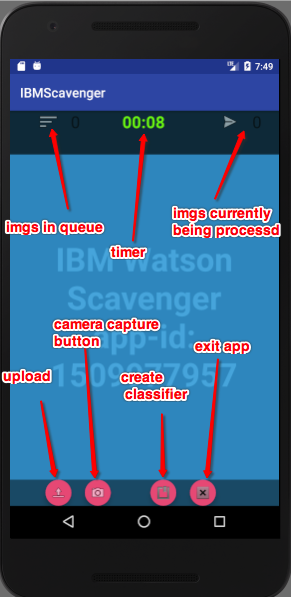
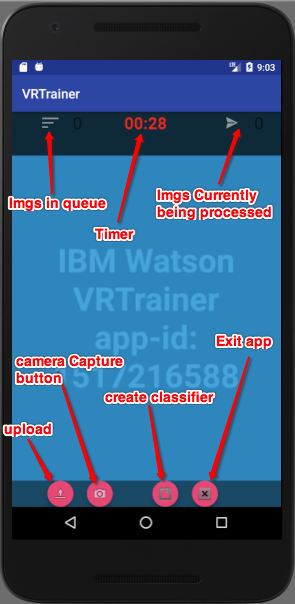
Naming changes
Naming changes

diff --git a/app/src/main/java/com/ibm/watson/scavenger/main/FullscreenActivity.java b/app/src/main/java/com/ibm/watson/scavenger/main/FullscreenActivity.java
@@ -153,7 +153,6 @@ public class FullscreenActivity extends AppCompatActivity {
     private Chronometer counter = null;
     private int train_no_of_image = 10;
     private TextView trainCountRemaining = null;
-    public static String random_img_obj_str=null;
 
     /*
     *
@@ -338,10 +337,7 @@ public class FullscreenActivity extends AppCompatActivity {
             actionBar.setDisplayHomeAsUpEnabled(true);
         }*/
 
-        random_img_obj_str=getRandomImgObjString(mContext.getString(R.string.allowable_obj_set).split(","),
-                Integer.valueOf(mContext.getString(R.string.possible_number_of_obj).trim()));
-
-        if(checkInternetConnection()){
+        //if(checkInternetConnection()){
             /*
             initiate all the services instances
              */
@@ -496,13 +492,12 @@ public class FullscreenActivity extends AppCompatActivity {
                     cameraHelper.dispatchTakePictureIntent();
                 }
             });
-
-        }
-        else{
+            trainCaptureImgActionButton.setVisibility(View.INVISIBLE);
+            exitTraining_btn.setVisibility(View.INVISIBLE);
+        //}
+        /*else{
             Toast.makeText(this, " No Internet Connection available ", Toast.LENGTH_LONG).show();
-        }
-        trainCaptureImgActionButton.setVisibility(View.INVISIBLE);
-        exitTraining_btn.setVisibility(View.INVISIBLE);
+        }*/
     }
 
     @Override
@@ -597,10 +592,9 @@ public class FullscreenActivity extends AppCompatActivity {
         delayedHide(100);
 
         if(!this.getIntent().hasExtra("calling_act"))
-        tts_svc.playText("welcome IBM watson cloud platform. To end the game anytime click on exit " +
+        tts_svc.playText("welcome IBM watson cloud platform. To exit from app anytime click on exit " +
                 "button. To train and create the custom class. click on train button." +
-                " you have "+camera_visible_time_frame/1000+". seconds to capture the images. "+
-                " you need to capture images that should contain objects like "+random_img_obj_str, Voice.EN_MICHAEL);
+                " you have "+camera_visible_time_frame/1000+". seconds to capture the images. ", Voice.EN_MICHAEL);
 
         counter.start();
         //new ListenVoice().execute();

diff --git a/app/src/main/java/com/ibm/watson/scavenger/iot/IoTUtilService.java b/app/src/main/java/com/ibm/watson/scavenger/iot/IoTUtilService.java
@@ -130,7 +130,6 @@ class MyNewCommandCallback implements CommandCallback, Runnable {
                             event_payload.addProperty("img_base64", new IMGUtils().encodeIMGFileToBase64Binary(new File(uri)));
                             event_payload.addProperty("img_id", new File(uri).getName());
                             event_payload.addProperty("app_id", FullscreenActivity.unique_app_id);
-                            event_payload.addProperty("random_img_obj_str",FullscreenActivity.random_img_obj_str);
                             ///new FullscreenActivity.PushToIoT(event_payload).execute();
 
                             FullscreenActivity.iot_svc.getIot_client().publishEvent(FullscreenActivity.iot_svc.getIot_event_for_img_base64(), event_payload);

diff --git a/README.md b/README.md
@@ -1,6 +1,6 @@
-IBM Scavenger Hunting and Image Training through Android powered by IBM Watson
+IBM Watson Image Training through Android
 
-In this developer journey we will create Scavenger Hunt game and a Image training app for Android device based on Watson's below services:
+In this developer journey we will create Image training app for Android device based on Watson's below services:
 
 1. Text To Speech(TTS)
 3. Visual Recognition(VR)
@@ -12,9 +12,9 @@ Architecture:
 
 <img src="app/libs/Snip20170811_1.png" allign="center"/>
 
-This scavenger app consists of below two applications:
+This app consists of below two applications:
 1. Training App(to create and train a new custom classifier using Watson's VR)
-2. Scavenger App(to demonstrate the prediction results of each image through created custom classifier including default one.)
+2. Prediction App(to demonstrate the prediction results of each image through created custom classifier including default one.)
 
 
 After completing this journey you will understand how to:
@@ -78,7 +78,7 @@ Coding the app on Android Studio
 Android Studio is the Official IDE for Android. Android Studio provides the fastest tools for building apps on every type of Android device.
 Clone the repo and import the code in Android Studio,
 
-git clone https://github.com/IBM-Bluemix/chatbot-watson-android.git
+git clone https://github.com/arprasto/WatsonVRTrainingAndroid.git
 
 Watson Configuration Parameters(watson_config.xml)
 
@@ -100,13 +100,6 @@ Navigate to file app/src/main/res/values/watson_config.xml and provide Bluemix s
     <string name="vr_api_key">xxxxxxxxx</string> 
     <string name="vr_classifier_name">DemoClassifier</string> 
 
-    <!-- allowable set of objects to capture images for Scavenger -->
-    <string name="allowable_obj_set">window,bag,person,bottle,room,bed</string>
-
-    <!-- actual number of allowable objects which will be selected randomly from allowable_obj_set for a particular Scavenger app session
-    	value(possible_number_of_obj) <= size(allowable_obj_set) -->
-    <string name="possible_number_of_obj">3</string>
-
     <!-- time frame(millis) for Scavenger in which Image capturing will be allowed -->
     <string name="time_frame">30000</string>
 
@@ -120,7 +113,7 @@ Navigate to file app/src/main/res/values/watson_config.xml and provide Bluemix s
     <!-- classifier training configuration ends here-->
 
 
-Home screen for Scavenger :
+Home screen for Prediction App :
 <img src="app/libs/Snip20170814_13.png" allign="center"/>
 
 Training screen :
@@ -128,4 +121,4 @@ Training screen :
 
 How to see VR Results:
 
-Please refer ScavengerWebResultApp here : https://github.com/arprasto/ScavengerWebResultApp
+Please refer ScavengerWebResultApp here : https://github.com/arprasto/PredictionWebResultApp
